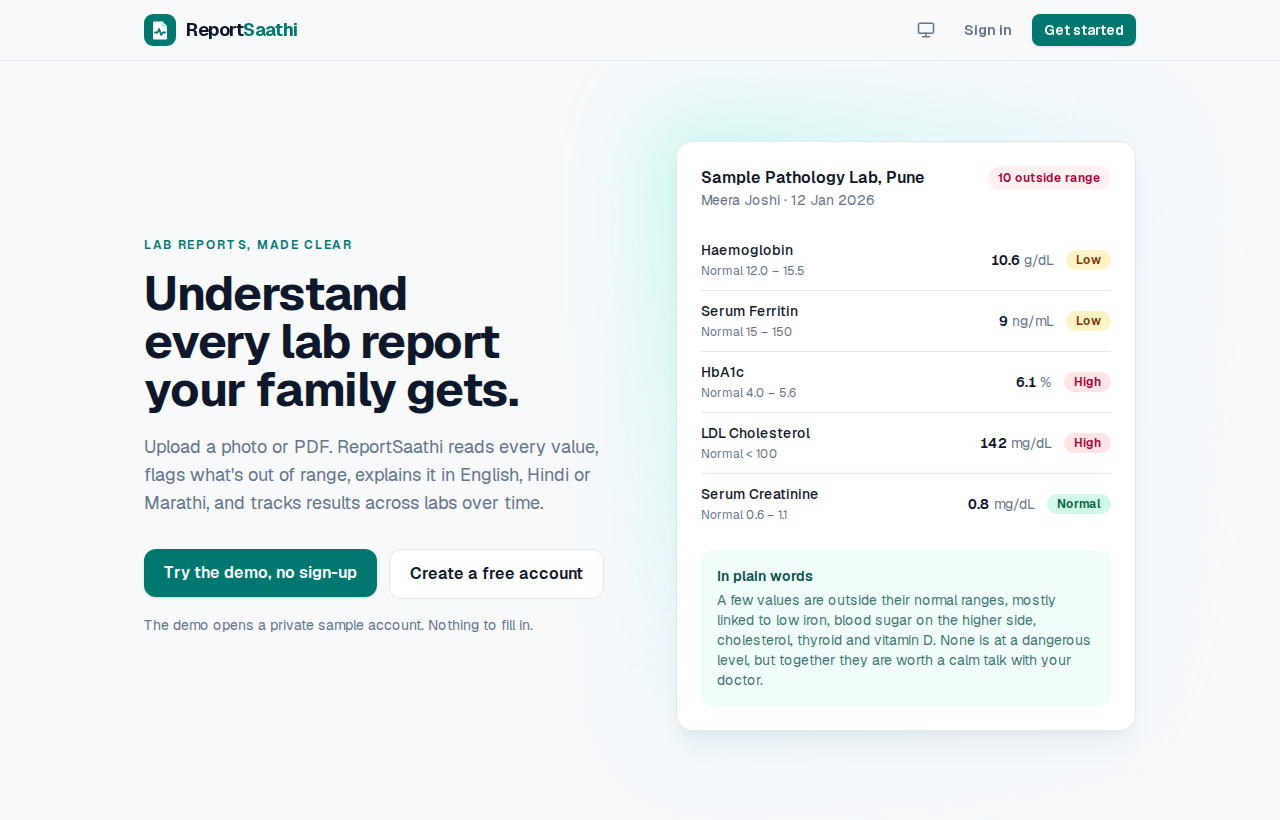
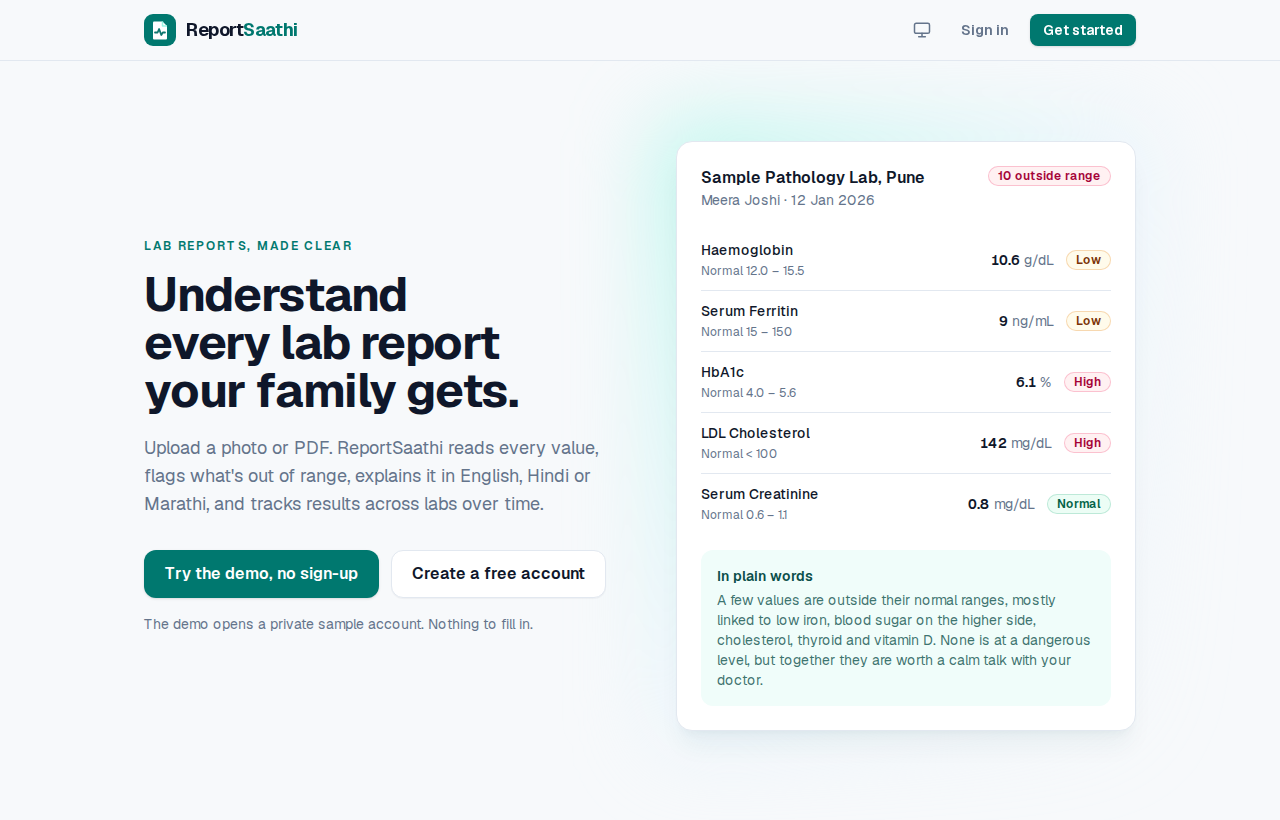
Note the Phase 6 polish pass and refresh the README screenshots
Claude-Session: https://claude.ai/code/session_01K8PyoYQw5QKQrrYv98J5Pm

diff --git a/docs/DECISIONS.md b/docs/DECISIONS.md
@@ -311,3 +311,13 @@ the browser's viewer at `#page=N`, which can't show a highlight and doesn't exis
 already brings `pypdfium2` (Chrome's PDF engine) to draw pages, so the API returns one page as a PNG at
 150 dots per inch, owner only and `no-store` like the file itself, and the dialog treats it exactly as a
 photo report. The website stays free of a PDF library. Pages are drawn on request rather than stored, so no unencrypted copy of a report sits on disk.
+
+**Polish through a few shared pieces, not page-by-page tweaks.** A look at every screen in light, dark
+and on a 390px phone found the same problems in many places: page titles in three sizes, four kinds of
+empty or error message (one was a bare red line with the server's words), buttons of different heights
+side by side, "Ready" on every report row, cut-off names on phones, and white on teal-600 in dark mode
+(3.7:1, below the 4.5:1 AA needs). So the fixes live in `globals.css` (button sizes, a badge, an icon
+button, one focus ring, no motion for people who ask for less) and in four small components:
+`PageHeader`, `StatusPanel` (with `LoadError`), `StatCard` and `BackLink`. A new page gets the same look
+by using them, and a later change to one changes every page. Nothing new was installed: icons are the
+inline SVGs the app already drew, and the brand teal and logo are unchanged.

diff --git a/README.md b/README.md
@@ -31,6 +31,13 @@ keeps the whole family's reports, privately and encrypted.
   PDFs to a new tab. Now the API draws the page as an image (`GET /api/reports/{id}/pages/{n}`, owner
   only, never cached), so phones without a PDF viewer see the marked value too. "Open the PDF" is still
   there, and if a page can't be drawn the old "open page N" button comes back.
+- **A finishing pass on every screen.** Every page now opens with the same header (back link, title,
+  one line about the page, its buttons), and every empty, missing, failed or still-working moment uses
+  one panel with an icon, a plain sentence and the next thing to do, including a "Try again" where a
+  list didn't load. Buttons share one height per size, flags and labels share one badge style, values
+  use even-width figures, and every link and button shows the same focus ring. On phones, report names
+  wrap instead of being cut off, the report page's stat cards line up, and each result shows its range
+  on its own line. Dark-mode buttons keep white on teal-700, which passes the AA contrast check.
 
 ### Phase 5: beating the competition on trust
 
